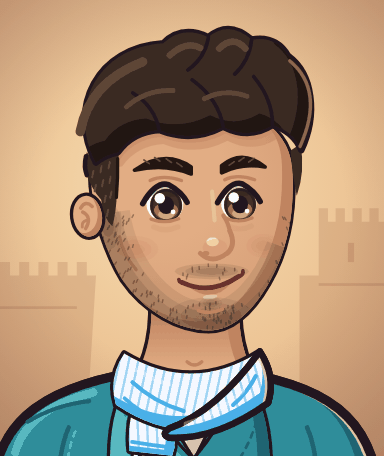
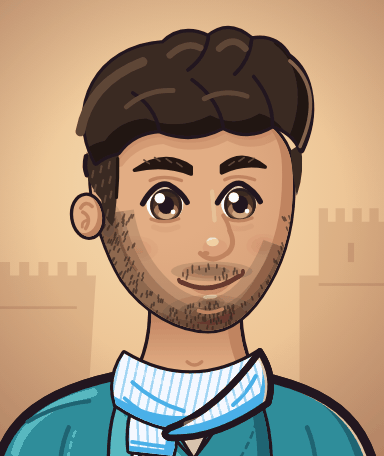
fix(portre): Memo'nun kirli sakalı biraz daha dolgun
- Portrede çene hattı, dudak üstü ve çene ucundaki gölge koyulaştı, kısa tel sayısı arttı.
- Oyun içi karakterde sakal gölgesi aynı oranda koyulaştı.
- public/portreler ve docs/img/portraits.png yeniden üretildi.

Claude-Session: https://claude.ai/code/session_01CjLDHkngRLgSfnyuWoUAYp

Changed region(s): [[0.25, 0.4605, 0.75, 0.7368], [0.7188, 0.4605, 0.75, 0.4912]]

diff --git a/game/portraitDraw.ts b/game/portraitDraw.ts
@@ -702,7 +702,7 @@ const STUBBLE: number[] = (() => {
     return seed / 2147483647
   }
   const inside = (x: number, y: number, cx: number, cy: number, rx: number, ry: number) => ((x - cx) / rx) ** 2 + ((y - cy) / ry) ** 2 < 1
-  for (let i = 0; i < 2400 && out.length < 3 * 250; i++) {
+  for (let i = 0; i < 4200 && out.length < 3 * 420; i++) {
     const x = 28 + rnd() * 48
     const y = 57 + rnd() * 29
     const lean = (x - 56) * 0.014 + (rnd() - 0.5) * 0.24
@@ -713,7 +713,7 @@ const STUBBLE: number[] = (() => {
 })()
 
 /**
- * Memo'nun kirli sakalı: bir iki günlük tıraşsızlık. Önce yumuşak kenarlı gölge (favoriden çeneye ince hat, dudak üstü,
+ * Memo'nun kirli sakalı: üç dört günlük tıraşsızlık. Önce yumuşak kenarlı gölge (favoriden çeneye ince hat, dudak üstü,
  * çene ucu), üstüne kılın çıkış yönüne yatan kısa teller. Çene hattı ve ağız açıkta kalır; ağız bunun üstüne çizilir.
  */
 function stubble(c: Ctx) {
@@ -724,7 +724,7 @@ function stubble(c: Ctx) {
   c.clip()
   // çene hattı: iç içe üç şerit, kenarı yumuşak
   c.lineCap = 'butt'
-  for (const [w, a] of [[13, 0.09], [8.5, 0.1], [4.5, 0.11]]) {
+  for (const [w, a] of [[15, 0.16], [10, 0.18], [5.5, 0.2]]) {
     c.beginPath()
     c.moveTo(30.4, 57)
     c.bezierCurveTo(32.6, 72.6, 44, 85, 56, 85)
@@ -734,17 +734,17 @@ function stubble(c: Ctx) {
     c.stroke()
   }
   // favorinin sakala karıştığı yer, dudak üstü, çene ucu ve dudak altı
-  soft(c, 31.6, 60, 2, 3.6, tone(0.3))
-  soft(c, 56.8, 71, 5.6, 1.2, tone(0.34))
-  soft(c, 56.6, 81.8, 6.4, 2.8, tone(0.26))
-  soft(c, 56.6, 78.6, 1.7, 0.9, tone(0.24))
+  soft(c, 31.6, 60, 2.2, 3.8, tone(0.38))
+  soft(c, 56.8, 71, 6.2, 1.5, tone(0.46))
+  soft(c, 56.6, 81.8, 7.4, 3.2, tone(0.36))
+  soft(c, 56.6, 78.6, 2, 1, tone(0.32))
   c.beginPath()
   for (let i = 0; i < STUBBLE.length; i += 3) {
     c.moveTo(STUBBLE[i], STUBBLE[i + 1])
-    c.lineTo(STUBBLE[i] + STUBBLE[i + 2], STUBBLE[i + 1] + 0.62)
+    c.lineTo(STUBBLE[i] + STUBBLE[i + 2], STUBBLE[i + 1] + 0.74)
   }
-  c.strokeStyle = tone(0.4)
-  c.lineWidth = 0.36
+  c.strokeStyle = tone(0.58)
+  c.lineWidth = 0.42
   c.lineCap = 'round'
   c.stroke()
   c.restore()

diff --git a/game/heroDraw.ts b/game/heroDraw.ts
@@ -78,7 +78,7 @@ export const LOOKS: Record<Look, Skin> = {
     coat: '#2f8d9a', coatS: '#1f6472', coatL: '#58b8c0', shirt: '#f2eee6',
     scarf: '#d83c36', scarfS: '#9e2430', pants: '#3e3e4e', pantsS: '#2a2a36',
     boot: '#6a3e2a', bootS: '#3e2418', brow: '#241612',
-    stubble: 'rgba(48,32,26,0.34)',
+    stubble: 'rgba(48,32,26,0.46)',
   },
   // ── şehir insanları: aynı çizgi, başka kılık
   amca: {
